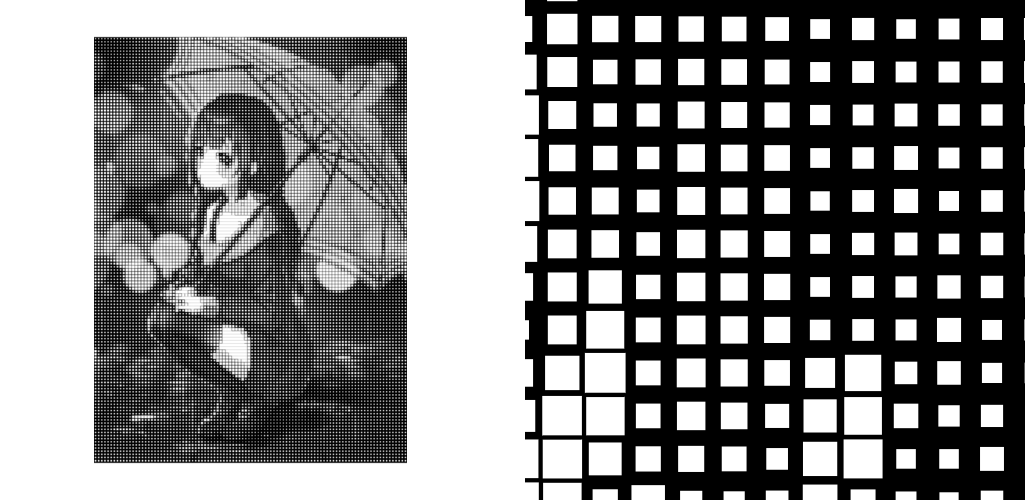
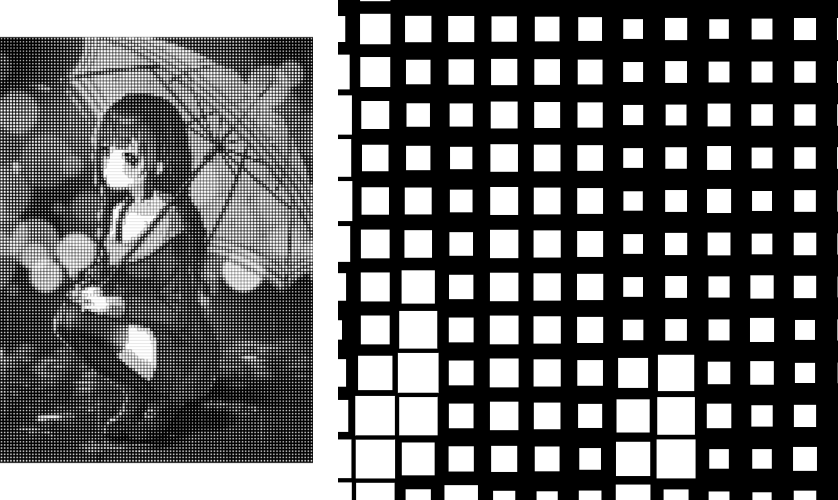
Add post

diff --git a/post.html b/post.html
@@ -1,0 +1,256 @@
+<!doctype html> <html>
+    <head>
+        <meta http-equiv="Content-Type" content="text/html; charset=UTF-8">
+        <title>Create beautiful boards with Gerbolyze</title>
+<style type="text/css">
+@font-face {
+    font-family: "playfair display webfont";
+    font-weight: 600;
+    src: url("fonts/playfair-display-v22-latin-ext_latin-600.woff2") format("woff2");
+}
+
+@font-face {
+    font-family: "playfair display webfont";
+    font-weight: 400;
+    src: url("fonts/playfair-display-v22-latin-ext_latin-regular.woff2") format("woff2");
+}
+
+@font-face {
+    font-family: "playfair display webfont";
+    font-weight: 700;
+    src: url("fonts/playfair-display-v22-latin-ext_latin-700.woff2") format("woff2");
+}
+
+:root {
+    --textw: calc(min(600px, 100vw));
+    --mar: calc(50vw - 0.5*var(--textw));
+}
+
+html, body {
+    margin: 0;
+    padding: 0;
+    hyphens: auto;
+    overflow-wrap: break-word;
+    font-size: 14pt;
+    font-family: "Source Sans Pro";
+}
+
+.content {
+    padding-left: 10px;
+    padding-right: 10px;
+    width: 100%;
+    box-sizing: border-box;
+}
+
+/*
+* { border: 1px solid red; }
+*/
+
+figure {
+    overflow: hidden;
+    padding-top: 20px;
+    padding-right: 0;
+    padding-bottom: 20px;
+    padding-left: var(--mar);
+    margin: 0;
+    box-sizing: border-box;
+    width: 100vw;
+    max-width: 100%;
+}
+
+img {
+    display: inline-block;
+    width: var(--textw);
+    margin-right: 2em;
+}
+
+figcaption {
+    display: inline-block;
+    margin: 0;
+    width: 20em;
+    vertical-align: top;
+    text-align: justify;
+}
+
+figcaption > strong {
+    display: block;
+    font-family: "playfair display webfont";
+    font-weight: 700;
+    color: #c00;
+    font-size: 16pt;
+    margin-bottom: .5em;
+}
+
+.content > p {
+    margin-left: var(--mar);
+    width: var(--textw);
+    box-sizing: border-box;
+    text-align: justify;
+    line-height: 1.5;
+    max-width: 100%;
+}
+
+h1, h2, h3, h4, h5, h6 {
+    font-family: "playfair display webfont";
+    font-weight: 600;
+    color: #c00;
+    text-align: right;
+    margin: 0;
+    padding-left: 1em;
+    padding-top: 0;
+    box-sizing: border-box;
+    width: calc(var(--mar) + var(--textw));
+    max-width: 100%;
+}
+
+h1 {
+    font-size: calc(24pt + 2vh + 2vw);
+    padding-bottom: 0.7em;
+}
+
+body::before {
+    content: "";
+    display: block;
+    margin-top: 100px;
+    border-top: 0.7mm dashed #c00;
+    width: 100vw;
+    max-width: 100%;
+}
+
+h2 {
+    font-size: calc(24pt + 1vh + 1vw);
+    margin-top: 1em;
+    margin-bottom: .5em;
+}
+
+</style>
+    </head>
+    <body lang="en">
+        <div class="content">
+            <h1>Create beautiful boards with Gerbolyze</h1>
+            <p>
+            Today, there is an increasingly large crowd of people who do artistic circuit board designs. People who fuse
+            the roles of engineer and artist. Unitl today, circuit board design tools mostly ignore this use case and
+            present a multitude of obstacles for such use. Gerbolyze finally solves this problem and presents an
+            integrated solution for artistic PCB design that is compatible with real designer's workflows on one side
+            and with real electronic design automation software on the other side.
+            </p>
+            <figure>
+                <a href="pics/pcbway_sample_02_small.jpg"><img src="pics/pcbway_sample_02_small.jpg" alt="A printed
+                         circuit board showing a surrealist manga-style drawing of a woman sitting atop several traffic
+                         lights. The woman's hair looks golden from the circuit board's gold copper finish. The
+                         background is blue and white with scales of gray emulated through a halftone technique like it
+                         is used in newspapers."/></a>
+                <figcaption>
+                    <strong>An artistic PCB design</strong>
+                    <p>
+                    This design was created from a digital artwork in a raster image file after circuit board
+                    manufacturer PCBWay offered me some free boards. The artwork was pre-processed using a raster
+                    graphics tool: It was split into layers for the different colors. Then, its color components were
+                    adjusted for brightness and contrast and finally passed through a raster-based halftone filter. The
+                    resulting file was then converted into circuit board manufacturing files using Gerbolyze.
+                    </p>
+                </figcaption>
+            </figure>
+            <p>
+            Thirty years ago, the world of printed circuit board design was revolutionized by the introduction of
+            computer aided design tools. These tools enabled extremely complex designs through automation features
+            like autorouting and through automatic design rule checking to weed out human error. While the first
+            such tools were still very limited, their capabilites quickly grew and a few years after their
+            introduction modern electronics design without computers was already unthinkable.
+            </p>
+            <p>
+            Today, circuit board design programs can look back on a rich history and have accumulated a healty
+            amount of expert knowledge in their design. Despite their difficult economic niche, even <em>free
+                software</em> design tools have grown to become usable for advanced designs. However, all modern
+            circuit board design tools are severely lacking in one area: That of <em>artistic</em> design.  Many
+            design assumptions are hard-wired deep into their design: Traces should be at 45° angles.  Silkscreen is
+            one opaque color. etc. These design assumptions lead to these tools being <em>in the way</em> more often
+            than not for the increasing crowd of designers who try to create art with them.
+            </p>
+            <p>
+            Gerbolyze solves this problem. Gerbolyze interfaces with circuit board design tools such as Altium or Kicad
+            on one side through standard Gerber files. It interfaces with vector graphics editors such as inkscape on
+            the other side through Scaleable Vector Graphics (SVG) files. By fusing both, it yields a powerful
+            environment for artistic circuit board design.
+            </p>
+            <h2>Gerbolyze Algorithm Overview</h2>
+            <p>
+            Gerbolyze has two major components. The first is the gerbolyze executable itself, which orchestrates the
+            process of fusing SVG and Gerber files. The second is svg-flatten, a tool encapsulating all of the
+            heavy-duty computer graphics code. The gerbolyze executable is a python script for readability, while the
+            geometry backend is a C++ binary for performance.
+            </p>
+            <p>
+            In the beginning of the fusing process, the orchestrator figures out what semantic layers such as silkscreen
+            or copper the tool's input files correspond to. The assigned layers are then processed one by one. For each
+            layer, the tool first checks the input SVG file for any content. If there is none on this layer, the layer
+            file is directly copied to the output. If ther is some, this SVG content is passed through the geometry
+            backend to convert it to Gerber code. The resulting Gerber code is then read and added on top of the input
+            file's gerber code. The result is written to the output.
+            </p>
+            <h2>The Computer Geometry of Scaleable Vector Graphics</h2>
+            <p>
+            The heavy lifting during this process is done by the geometry backend. While its job seems simple at first,
+            it is surprisingly stretching the state of the art in both academic research and technical implementations
+            of computer graphics. In its core the problem is that while SVG and Gerber are both essentially vector
+            graphics formats, both have very different conceptions of their drawing models: They differ significantly in
+            what happens when one of the input file's vectors is drawn.
+            </p>
+            <p>
+            SVG is little more than a highly standardized description of the basic operations provided by the modern 2D
+            graphics interfaces such as Qt, Cairo or Skia that are built-in to all operating systems. Drawing
+            <em>paths</em> that are described by the vector coördinates of points along them is the most basic of these
+            operations. SVG also includes support for a surprising number of decidedly <em>raster</em> operations such
+            as masking but, operating on grayscales, these are less relevant for the type of design one would create
+            when targeting circuit board production processes.
+            </p>
+            <p>
+            Similar to SVG, the Gerber file format also targets a type of graphics programming interface. Only instead
+            of that of operating systems 2D graphics APIs of the 90ies and 2000s, the Gerber format was created as a way
+            to encapsulate commands for photoplotters, computer-controlled machines that physically move a light source
+            across a photo-sensitive material. Gerber's concept of "aptertures" goes back to mechanical photoplotters
+            having magazines of stencils of different shapes and sizes that could be swapped into the path of light
+            during the plotting process.
+            </p>
+            <p>
+            Like SVG has its paths, the Gerber format has polygons. Polygons were added to the format to ease the
+            description of irregularly-shaped areas: Previously, these would have to be drawn by overlaying thousands of
+            thin lines, described one by one in the Gerber file. Using a Polygon, one only needs to describe the shape's
+            outline as a series of points and the photoplotter will fill in the rest.
+            </p>
+            <h2>Transforming Vectors into Vectors</h2>
+            <p>
+            The crux in converting from SVG to Gerber lies here, in the conversion of paths. While in both a path or
+            polygon is described by its outline, which is described by points, there are significant differences in the
+            limitations both place on these outlines. In SVG an outline can consist of several types of segments:
+            besides basic straight lines, multiple types of parametrized curves including cubic bezier curves are
+            possible. An SVG path's outline can self-intersect (cross over itself). The path can also have holes,
+            additional parts that are inside the outline.
+            </p>
+            <p>
+            Gerber, on the other hand, has a much more limited view of what a polygon is. In gerber, a polygon is
+            something bounded by straight line segments, that cannot touch except under very particular circumstances,
+            and holes are simply not supported. Converting from SVG's flexible model of a path to Gerber's very
+            limited model of a polygon while preserving the fidelity of the input data is the true challenge here. As an
+            aside, a fun complication one will encounter when embarking on this endeavour is that most programs that
+            display Gerber files use modern graphics libraries in the backend. In these programs, a valid SVG path
+            ineptly converted into an illegal gerber polygon may still end up looking alright since these programs
+            usually just pass through the gerber's input data to the underlying graphics layer without validation—and
+            that graphics layer is the one from SVG.
+            </p>
+            <h2>Styles and Strokes</h2>
+            <p>
+            </p>
+            <!-- stroking -->
+            <h2>Gerbolyze Image Vectorization</h2>
+            <figure>
+                <a href="pics/vec-comparison-poisson.png"><img src="pics/vec-comparison-poisson.png"/></a>
+                <figcaption>
+                    <strong>Poisson-Disc Sampling</strong>
+<!-- ... -->
+                </figcaption>
+            </figure>
+        </div>
+    </body>
+</html>
